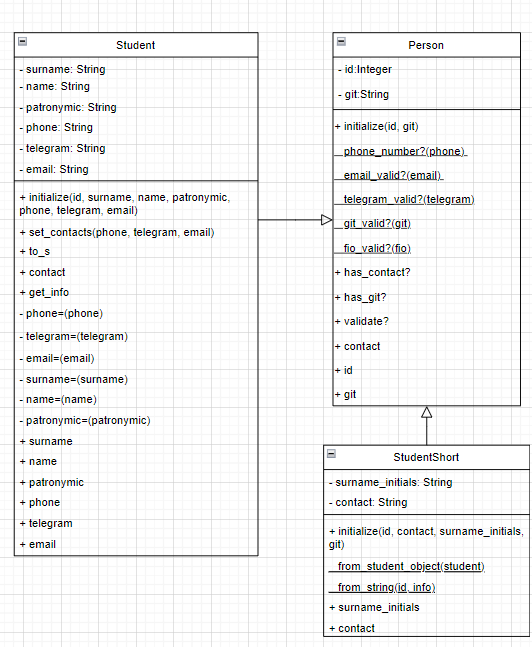
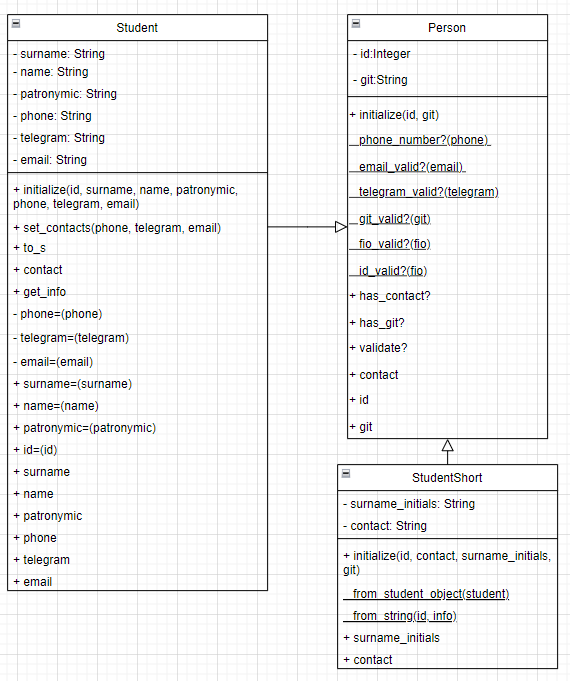
fix: add id and git setters and make public some setters

diff --git a/student/student.rb b/student/student.rb
@@ -32,6 +32,31 @@ class Student < Person
     "surname_initials:#{@surname} #{@name[0]}. #{@patronymic[0]}., git:#{@git || "No git"}, contact:#{contact}"
   end
 
+  def surname=(surname)
+    raise "Invalid surname" if surname.nil? || !Student.fio_valid?(surname) 
+    @surname = surname if Student.fio_valid?(surname)
+  end
+
+  def name=(name)
+    raise "Invalid name" if name.nil? || !Student.fio_valid?(name) 
+    @name = name if Student.fio_valid?(name)
+  end
+
+  def patronymic=(patronymic)
+    raise "Invalid patronymic" if patronymic.nil? || !Student.fio_valid?(patronymic) 
+    @patronymic = patronymic if Student.fio_valid?(patronymic)
+  end
+
+  def git=(git)
+    raise "Invalid git" if !Student.git_valid?(git) 
+    @git = git if Student.git_valid?(git) 
+  end
+
+  def id=(id)
+    raise "Invalid id" if !Student.id_valid?(id) 
+    @id = id if Student.id_valid?(id) 
+  end
+
   private 
 
   def phone=(phone)
@@ -48,19 +73,5 @@ class Student < Person
     raise ArgumentError,"Incorrect email" if !Student.email_valid?(email)
     @email = email
   end
-
-  def surname=(surname)
-    raise "Invalid surname" if surname.nil? || !Student.fio_valid?(surname) 
-    @surname = surname if Student.fio_valid?(surname)
-  end
-
-  def name=(name)
-    raise "Invalid name" if name.nil? || !Student.fio_valid?(name) 
-    @name = name if Student.fio_valid?(name)
-  end
-
-  def patronymic=(patronymic)
-    raise "Invalid patronymic" if patronymic.nil? || !Student.fio_valid?(patronymic) 
-    @patronymic = patronymic if Student.fio_valid?(patronymic)
-  end
+  
 end

diff --git a/student/person.rb b/student/person.rb
@@ -7,19 +7,23 @@ class Person
   end
 
   def self.phone_number?(phone)
-    !phone.nil? && phone.match?(/\A(\+?7|8)\d{10}\z/)
+    phone.nil? || phone.match?(/\A(\+?7|8)\d{10}\z/)
   end
 
   def self.email_valid?(email)
-    !email.nil? && email.match?(/\A[a-zA-Z0-9_.+\-]+@[a-zA-Z0-9\-]+\.[a-zA-Z0-9\-.]+\z/)
+    email.nil? || email.match?(/\A[a-zA-Z0-9_.+\-]+@[a-zA-Z0-9\-]+\.[a-zA-Z0-9\-.]+\z/)
   end
 
   def self.telegram_valid?(telegram)
-    !telegram.nil? && telegram.match?(/\A@[a-zA-Z0-9_]{5,}\z/)
+    telegram.nil? || telegram.match?(/\A@[a-zA-Z0-9_]{5,}\z/)
   end
 
   def self.git_valid?(git)
     git.nil? || git.match?(/\A(https:\/\/)?github.com\/[a-zA-Z0-9_-]+\z/)
+  end
+
+  def self.id_valid?(id)
+    id.nil? || id.match?(/\A[0-9]+\z/)
   end
 
   def self.fio_valid?(fio)
